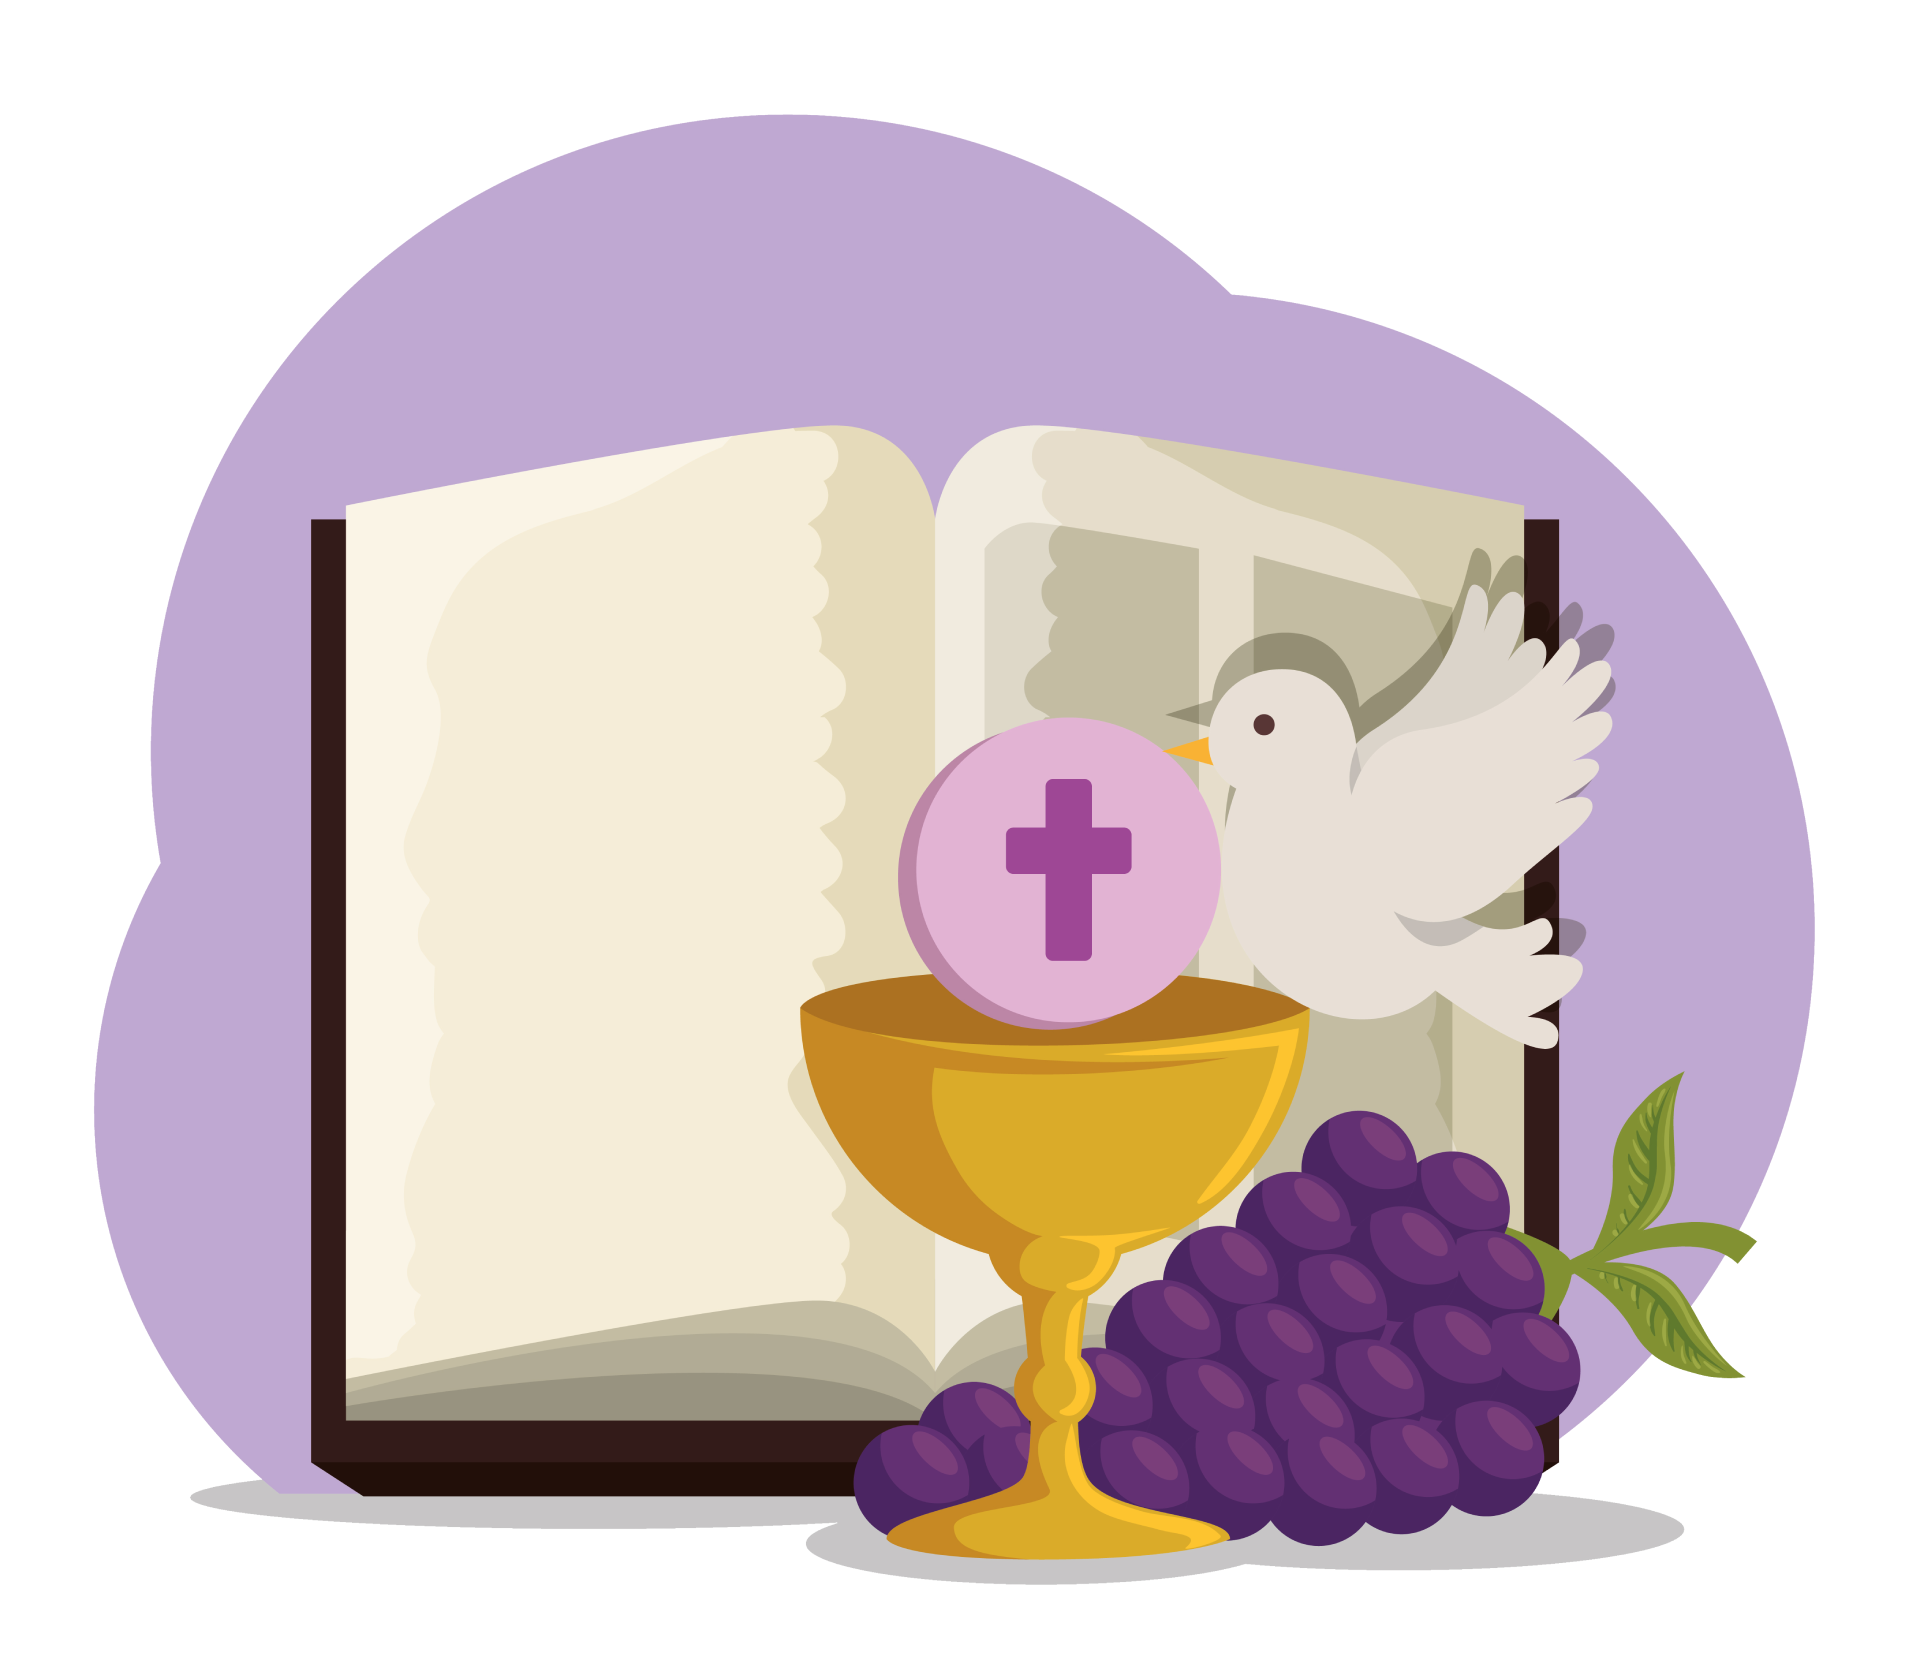
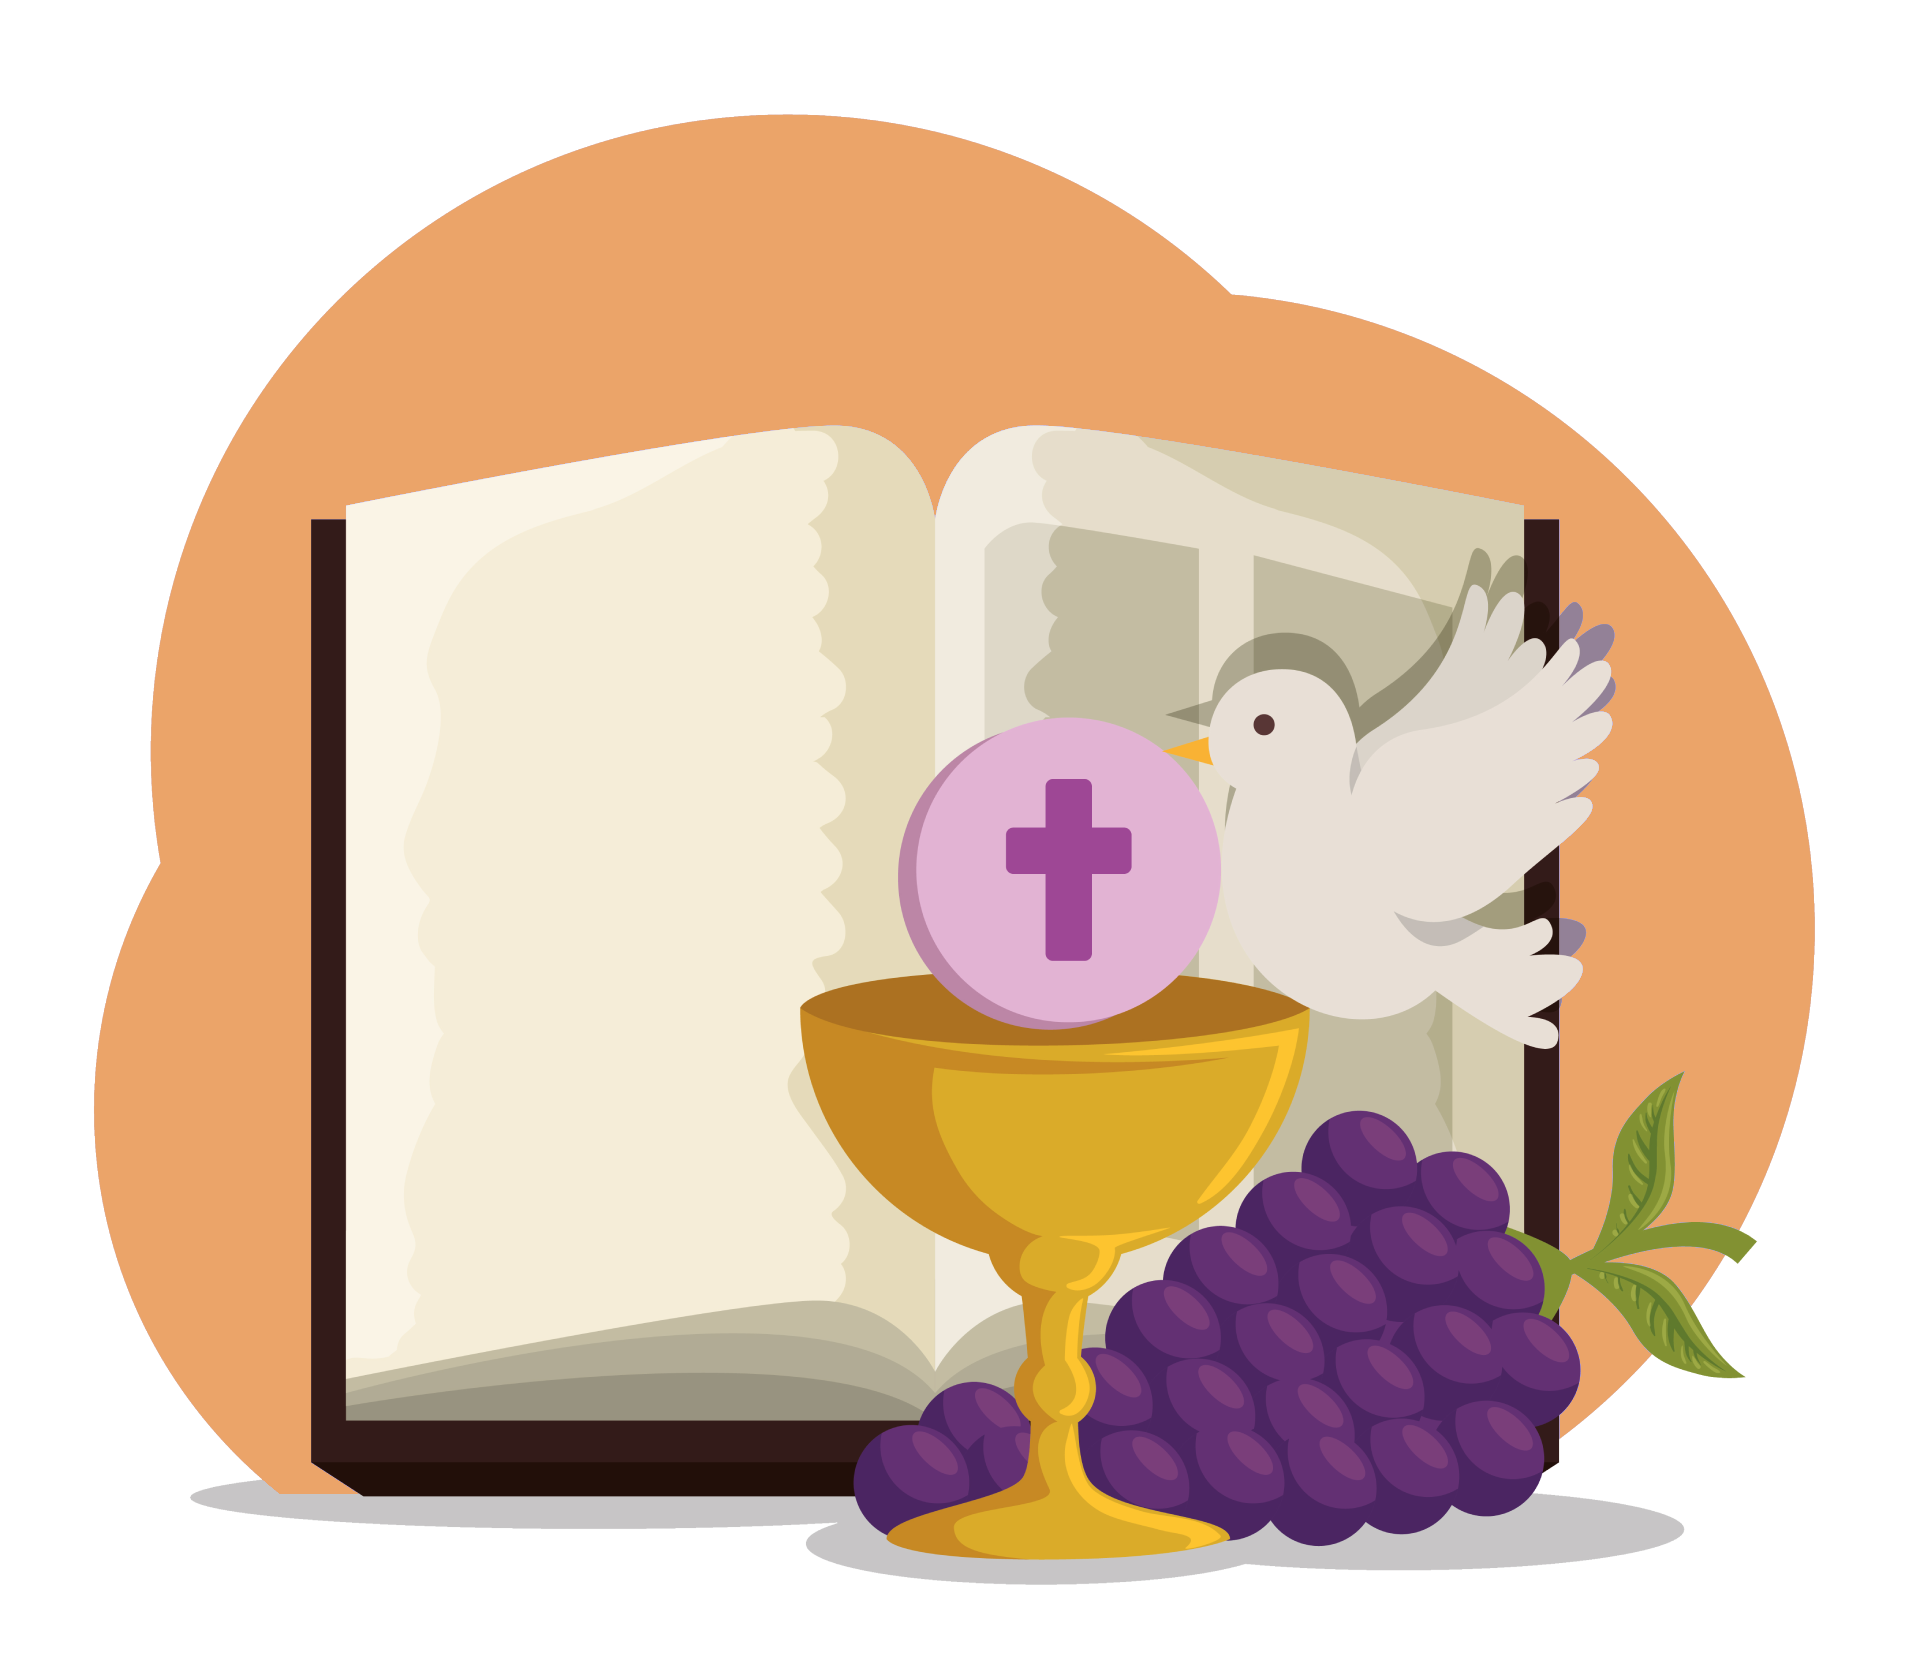
translate config

Changed region(s): [[0.0312, 0.0621, 0.9688, 0.9003]]

diff --git a/src/container/SignIn/index.jsx b/src/container/SignIn/index.jsx
@@ -10,12 +10,19 @@ import { Button } from '@ant-design/react-native';
 
 // import { Button } from 'antd-mobile';
 
+/*
+
+primary: #ef6c00
+secondary: #eba469
+
+*/
 
 const SignIn = () => {
   return (
     <View style={style.container}>
       <Image source={theBibleSrc} width={250} height={250} />
-      {/* <Translate k="appName" /> */}
+      <Text>teste</Text>
+      <Translate k="appName" />
       <Button>Start</Button>
       {/* <p className="py-2"> */}
       {/* <Translate k="appIntroDescription" /> */}

diff --git a/src/component/Translate/index.jsx b/src/component/Translate/index.jsx
@@ -1,13 +1,16 @@
 import React from 'react';
-import Text from 'react-native';
+import { Text, View } from 'react-native';
 import PropTypes from 'prop-types';
-import { useTranslation } from 'react-i18next';
+import i18n from '../../service/i18n';
 
 const Translate = props => {
-  const { t } = useTranslation();
   const { k } = props;
 
-  return <Text>{t(k)}</Text>;
+  return (
+    <View>
+      <Text>{i18n.t(k)}</Text>
+    </View>
+  );
 };
 
 Translate.propTypes = {

diff --git a/src/service/i18n.js b/src/service/i18n.js
@@ -1,0 +1,14 @@
+import * as Localization from 'expo-localization';
+import I18n from 'i18n-js';
+
+import enUs from './locales/en';
+import ptBr from './locales/ptBr';
+
+I18n.locale = Localization.locale;
+I18n.fallbacks = true;
+I18n.translations = {
+  'en-US': enUs,
+  'pt-BR': ptBr,
+};
+
+export default I18n;

diff --git a/src/service/locales/ptBr.js b/src/service/locales/ptBr.js
@@ -1,0 +1,6 @@
+export default {
+  appName: 'A Bíblia Sagrada',
+  appIntroDescription: 'Olá! Você pode fazer o login para ter acesso a diversos recursos.',
+  signInWithGoogle: 'Entrar com Google',
+  signInLater: 'Agora não',
+};

diff --git a/src/service/locales/en.js b/src/service/locales/en.js
@@ -1,0 +1,6 @@
+export default {
+  appName: 'The Holy Bible',
+  appIntroDescription: 'Hello! Sign in to have access to a lot of features.',
+  signInWithGoogle: 'Sign In with Google',
+  signInLater: 'Not now',
+};

diff --git a/src/index.js b/src/index.js
@@ -1,6 +1,4 @@
 import registerRootComponent from 'expo/build/launch/registerRootComponent';
 import App from './container/App';
 
-import './common/i18n';
-
 registerRootComponent(App);
